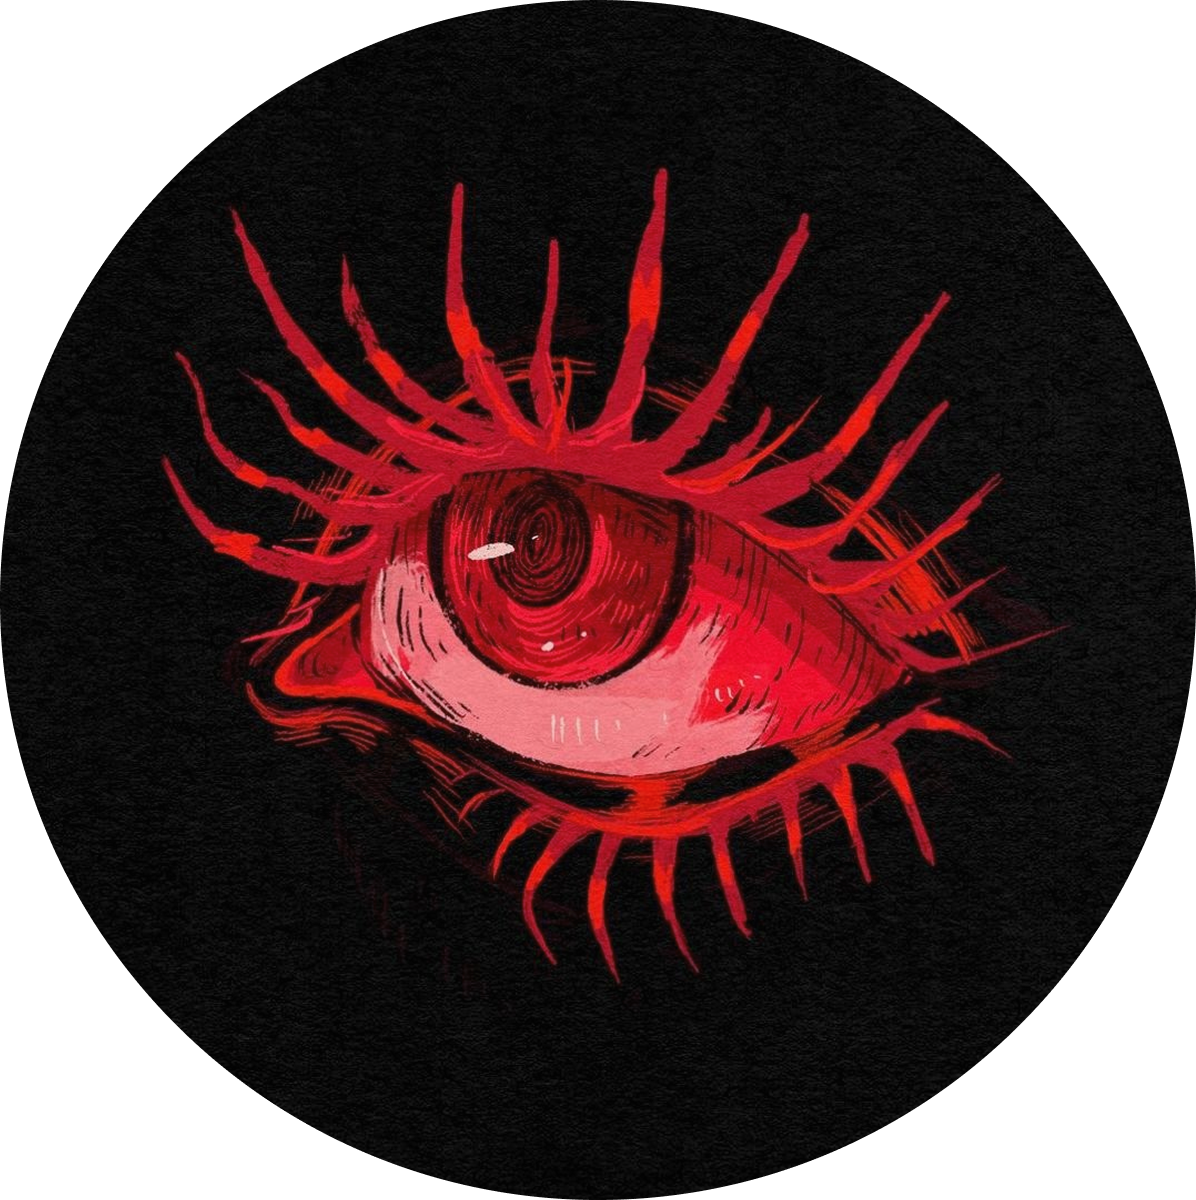
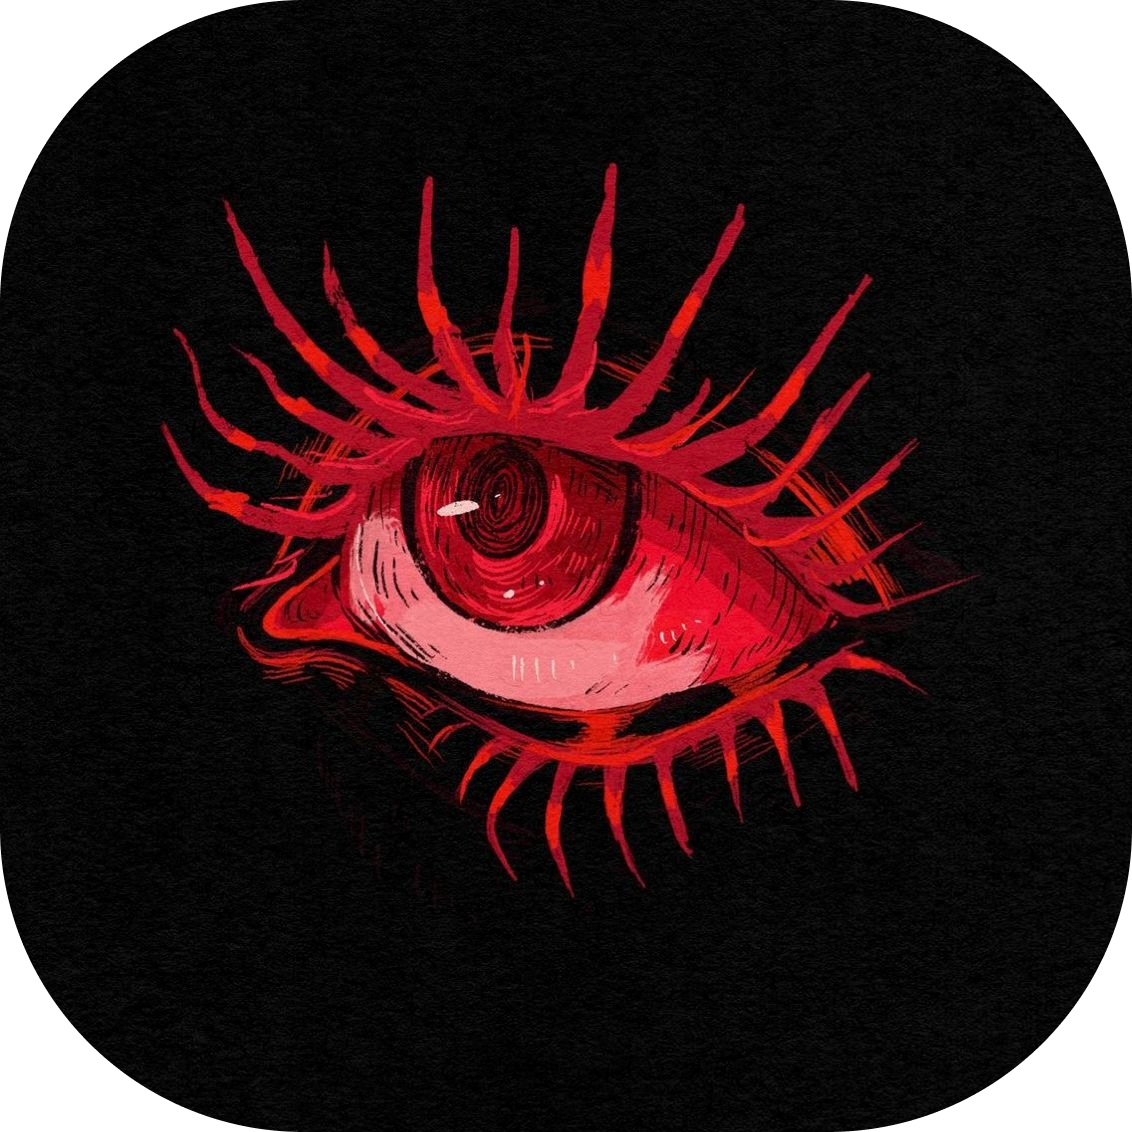
[Feat] Adaptive & Authomized season effect

diff --git a/src/App.tsx b/src/App.tsx
@@ -1,25 +1,73 @@
-import { useState } from 'react';
+import { useState, useMemo } from 'react';
 import { BrowserRouter as Router, Routes, Route, Link } from 'react-router-dom';
-import { type Season } from './SeasonEffect';
 import './App.css';
 import { Projects } from './pages/Projects/Projects';
 import { Plans } from './pages/Plans/Plans';
-import SeasonEffect from './SeasonEffect';
+import SeasonEffect, { type Season } from './SeasonEffect';
+
+const getCurrentSeason = (): Season => {
+  const month = new Date().getMonth();
+  if (month === 11 || month === 0 || month === 1) return 'winter';
+  if (month >= 2 && month <= 4) return 'spring';
+  if (month >= 5 && month <= 7) return 'summer';
+  return 'autumn';
+};
+
+const SeasonIcons = {
+  winter: (
+    <svg className='snow_btn__svg' viewBox="0 0 24 24" fill="none" xmlns="http://www.w3.org/2000/svg">
+      <path d="M12 3V21M16 4L12 8L8.00878 4M8.00878 20L12 16L16 20M3 12H21M4 8L8.00878 12L4 16M20 16L16 12L20 8" stroke-width="2" stroke-linecap="round" stroke-linejoin="round"/>
+    </svg>
+  ),
+  spring: (
+    <svg className='snow_btn__svg' version="1.1" xmlns="http://www.w3.org/2000/svg"
+      viewBox="0 0 512 512">
+    <g>
+      <path d="M512,224.438c0-63.766-51.703-115.469-115.484-115.469c-8.781,0-17.328,1-25.531,2.859
+        C365.656,52.984,316.219,6.875,256,6.875c-60.234,0-109.672,46.109-114.984,104.953c-8.219-1.859-16.766-2.859-25.531-2.859
+        C51.703,108.969,0,160.672,0,224.438c0,47.594,28.797,88.469,69.906,106.141c-10.297,17.281-16.234,37.484-16.234,59.063
+        c0,63.766,51.703,115.484,115.484,115.484c34.625,0,65.672-15.266,86.844-39.406c21.156,24.141,52.219,39.406,86.844,39.406
+        c63.781,0,115.484-51.719,115.484-115.484c0-21.578-5.938-41.781-16.25-59.063C483.203,312.906,512,272.031,512,224.438z
+        M256,372.531c-53.563,0-97-43.406-97-97c0-53.563,43.438-96.984,97-96.984s96.984,43.422,96.984,96.984
+        C352.984,329.125,309.563,372.531,256,372.531z" fill='#fff'/>
+    </g>
+    </svg>
+  ),
+  summer: (
+    <svg className='snow_btn__svg' viewBox="0 0 24 24" fill="none" stroke="currentColor" stroke-width="2" stroke-linecap="round" stroke-linejoin="round">
+      <circle cx="12" cy="12" r="5"></circle>
+      <line x1="12" y1="1" x2="12" y2="3"></line>
+      <line x1="12" y1="21" x2="12" y2="23"></line>
+      <line x1="4.22" y1="4.22" x2="5.64" y2="5.64"></line>
+      <line x1="18.36" y1="18.36" x2="19.78" y2="19.78"></line>
+      <line x1="1" y1="12" x2="3" y2="12"></line>
+      <line x1="21" y1="12" x2="23" y2="12"></line>
+      <line x1="4.22" y1="19.78" x2="5.64" y2="18.36"></line>
+      <line x1="18.36" y1="5.64" x2="19.78" y2="4.22"></line>
+    </svg>
+  ),
+  autumn: (
+    <svg className='snow_btn__svg' viewBox="0 0 48 48" xmlns="http://www.w3.org/2000/svg">
+      <path d="M45.7,36.9c-3.8-6.4-12.3-12.7-18.6-15.2a12.8,12.8,0,0,0-3.4-1c-1.7-.2-2.5-1.4-2.2-2.5s.8-1.4,1.9-1.3c3,.4,7.7,2.3,12.2,5.2l.9.6.3.2,1.2.8a1,1,0,0,0,1.6-.9c-.6-4.7-2.1-9.4-6.5-12.4S21.2,8,14,9.2a80.6,80.6,0,0,1-9.7,1.3H3a.9.9,0,0,0-.9,1.3l.4,1.2c3.1,9.4,7.4,22.3,17.8,25.4a17.4,17.4,0,0,0,4.5.6A19.5,19.5,0,0,0,38,33.7,29.4,29.4,0,0,1,42.3,39,1.9,1.9,0,0,0,44,40a2.2,2.2,0,0,0,1.3-.4A2.1,2.1,0,0,0,45.7,36.9Z" fill='#fff'/>
+    </svg>
+  )
+};
 
 const Home = () => <div className="page"><h1>Home Page</h1><p>Welcome to my site.</p></div>;
 
 function App() {
-  const [isSnowing, setIsSnowing] = useState<boolean>(false);
-  const [season, _] = useState<Season>('winter');
+  const currentSeason = useMemo(() => getCurrentSeason(), []);
+  
+  const [isEffectVisible, setIsEffectVisible] = useState<boolean>(false);
 
-  const toggleSnow = () => {
-    setIsSnowing(prev => !prev);
+  const toggleEffect = () => {
+    setIsEffectVisible(prev => !prev);
   };
 
   return (
     <Router>
       <div className="app-container">
-        <SeasonEffect isVisible={isSnowing} type={season} />
+        <SeasonEffect isVisible={isEffectVisible} type={currentSeason} />
 
         <nav className="nav">
           <div className="links">
@@ -27,10 +75,12 @@ function App() {
             <Link to="/plans">Plans</Link>
           </div>
           
-          <button className="snow_btn" onClick={toggleSnow}>
-            <svg className='snow_btn__svg' viewBox="0 0 24 24" fill="none" xmlns="http://www.w3.org/2000/svg">
-              <path d="M12 3V21M16 4L12 8L8.00878 4M8.00878 20L12 16L16 20M3 12H21M4 8L8.00878 12L4 16M20 16L16 12L20 8" stroke-width="2" stroke-linecap="round" stroke-linejoin="round"/>
-            </svg>
+          <button 
+            className={`snow_btn ${isEffectVisible ? 'active' : ''}`} 
+            onClick={toggleEffect}
+            title={`Toggle ${currentSeason} mode`}
+          >
+            {SeasonIcons[currentSeason]}
           </button>
         </nav>
 

diff --git a/src/SeasonEffect.tsx b/src/SeasonEffect.tsx
@@ -1,11 +1,10 @@
-import React, { useEffect, useRef } from 'react';
+import React, { useEffect, useRef, useState } from 'react';
 
-// Типы сезонов
 export type Season = 'winter' | 'spring' | 'summer' | 'autumn';
 
 interface SeasonEffectProps {
   isVisible: boolean;
-  type: Season;
+  type?: Season; 
 }
 
 interface Particle {
@@ -15,11 +14,38 @@ interface Particle {
   speed: number;
   wind: number;
   color: string;
-  angle: number; // Для раскачивания (осень/весна)
+  angle: number;
 }
+
+const getCurrentSeason = (): Season => {
+  const month = new Date().getMonth(); 
+  
+  if (month === 11 || month === 0 || month === 1) return 'winter';
+  
+  
+  if (month >= 2 && month <= 4) return 'spring';
+  
+  
+  if (month >= 5 && month <= 7) return 'summer';
+  
+  
+  return 'autumn';
+};
 
 const SeasonEffect: React.FC<SeasonEffectProps> = ({ isVisible, type }) => {
   const canvasRef = useRef<HTMLCanvasElement | null>(null);
+  
+  // Если type передали в пропсах — берем его, если нет — вычисляем сами
+  const [activeSeason, setActiveSeason] = useState<Season>(type || getCurrentSeason());
+
+  // Следим за изменением пропа type (если вдруг захотим переключить вручную)
+  useEffect(() => {
+    if (type) {
+      setActiveSeason(type);
+    } else {
+      setActiveSeason(getCurrentSeason());
+    }
+  }, [type]);
 
   useEffect(() => {
     const canvas = canvasRef.current;
@@ -30,7 +56,6 @@ const SeasonEffect: React.FC<SeasonEffectProps> = ({ isVisible, type }) => {
     let animationFrameId: number;
     const particles: Particle[] = [];
     
-    // Настройки для каждого сезона
     const config = {
       winter: { count: 150, color: () => '#ffffff', size: 0.5 },
       spring: { count: 80, color: () => '#ffb7c5', size: 2 }, 
@@ -38,7 +63,8 @@ const SeasonEffect: React.FC<SeasonEffectProps> = ({ isVisible, type }) => {
       autumn: { count: 60, color: () => ['#d35400', '#e67e22', '#f1c40f'][Math.floor(Math.random() * 3)], size: 3 }
     };
 
-    const current = config[type];
+    // Используем activeSeason вместо type
+    const current = config[activeSeason];
 
     const resize = () => {
       canvas.width = window.innerWidth;
@@ -66,26 +92,20 @@ const SeasonEffect: React.FC<SeasonEffectProps> = ({ isVisible, type }) => {
       particles.forEach((p) => {
         ctx.beginPath();
         ctx.fillStyle = p.color;
-
-        // Сбрасываем тени от лета, чтобы они не рисовались для других сезонов
         ctx.shadowBlur = 0; 
 
-        if (type === 'winter') {
+        if (activeSeason === 'winter') {
           ctx.arc(p.x, p.y, p.radius, 0, Math.PI * 2);
-          
           p.y += p.speed;
-          p.x += p.wind; // <--- ДОБАВИЛИ ВЕТЕР
+          p.x += p.wind; 
         } 
-        else if (type === 'spring' || type === 'autumn') {
+        else if (activeSeason === 'spring' || activeSeason === 'autumn') {
           p.angle += 0.02;
-          // Добавляем и покачивание (sin), и общий вектор ветра
           p.x += p.wind + Math.sin(p.angle) * 0.5; 
           p.y += p.speed;
-
           ctx.ellipse(p.x, p.y, p.radius, p.radius * 1.5, p.angle, 0, Math.PI * 2);
         } 
-        else if (type === 'summer') {
-          // Для лета можно сделать, чтобы ветер чуть-чуть влиял на общее парение
+        else if (activeSeason === 'summer') {
           p.y += Math.sin(p.angle) * 0.2;
           p.x += Math.cos(p.angle) * 0.2 + p.wind * 0.1; 
           p.angle += 0.01;
@@ -97,13 +117,10 @@ const SeasonEffect: React.FC<SeasonEffectProps> = ({ isVisible, type }) => {
 
         ctx.fill();
 
-        // Бесконечный цикл
         if (p.y > canvas.height) {
           p.y = -10;
           p.x = Math.random() * canvas.width;
         }
-        
-        // Проверка границ по X, чтобы частицы не улетали за экран из-за ветра
         if (p.x > canvas.width) p.x = 0;
         if (p.x < 0) p.x = canvas.width;
       });
@@ -116,7 +133,7 @@ const SeasonEffect: React.FC<SeasonEffectProps> = ({ isVisible, type }) => {
       window.removeEventListener('resize', resize);
       cancelAnimationFrame(animationFrameId);
     };
-  }, [type]); // Перезапускаем при смене сезона
+  }, [activeSeason]); 
 
   return (
     <canvas

diff --git a/index.html b/index.html
@@ -2,7 +2,7 @@
 <html lang="en">
   <head>
     <meta charset="UTF-8" />
-    <link rel="icon" type="image/svg+xml" href="/realeyes1.png" />
+    <link rel="icon" type="image/svg+xml" href="/realeyes.png" />
     <meta name="viewport" content="width=device-width, initial-scale=1.0" />
     <title>Bbvtaev</title>
   </head>
